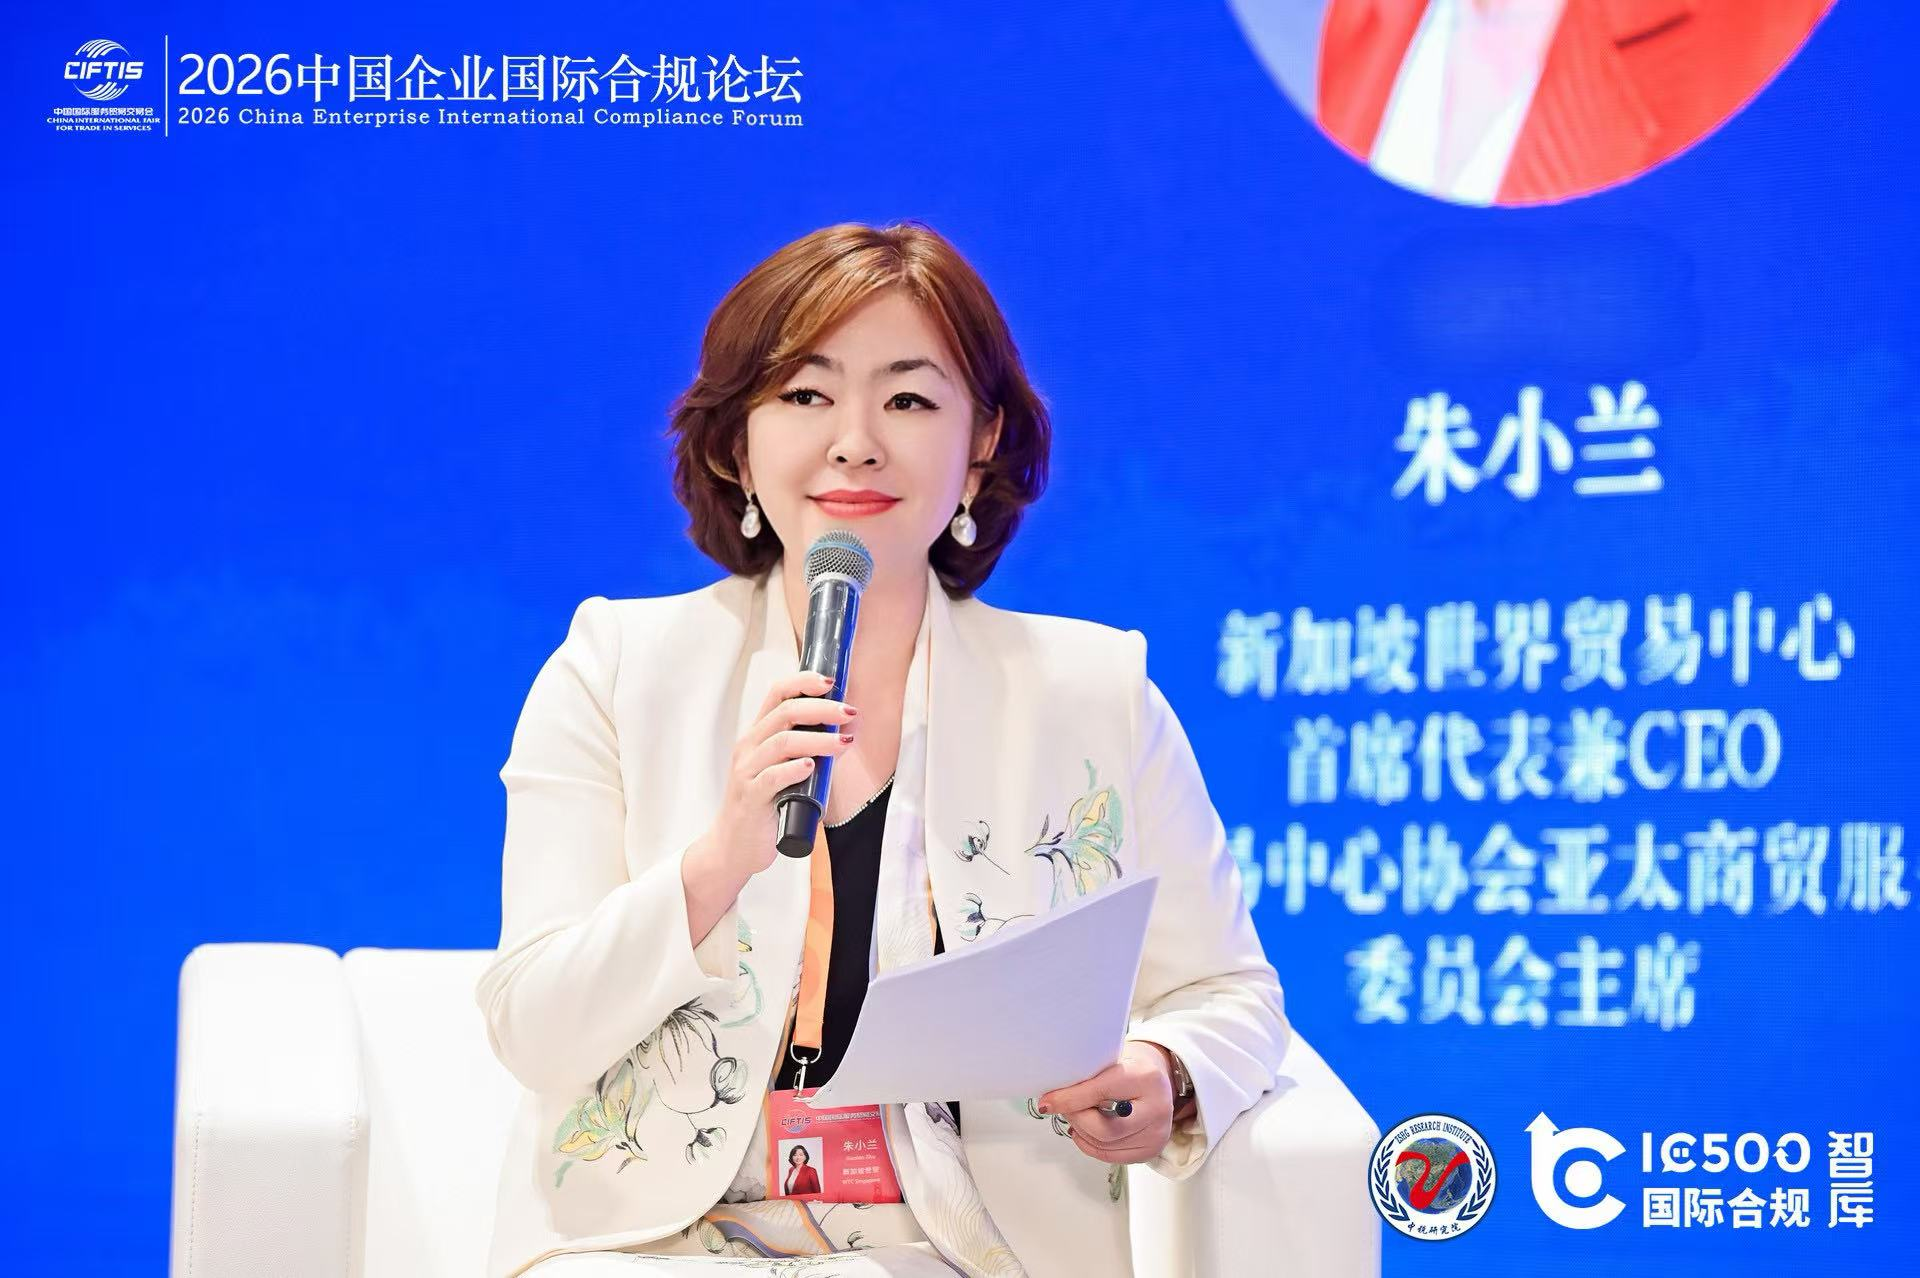
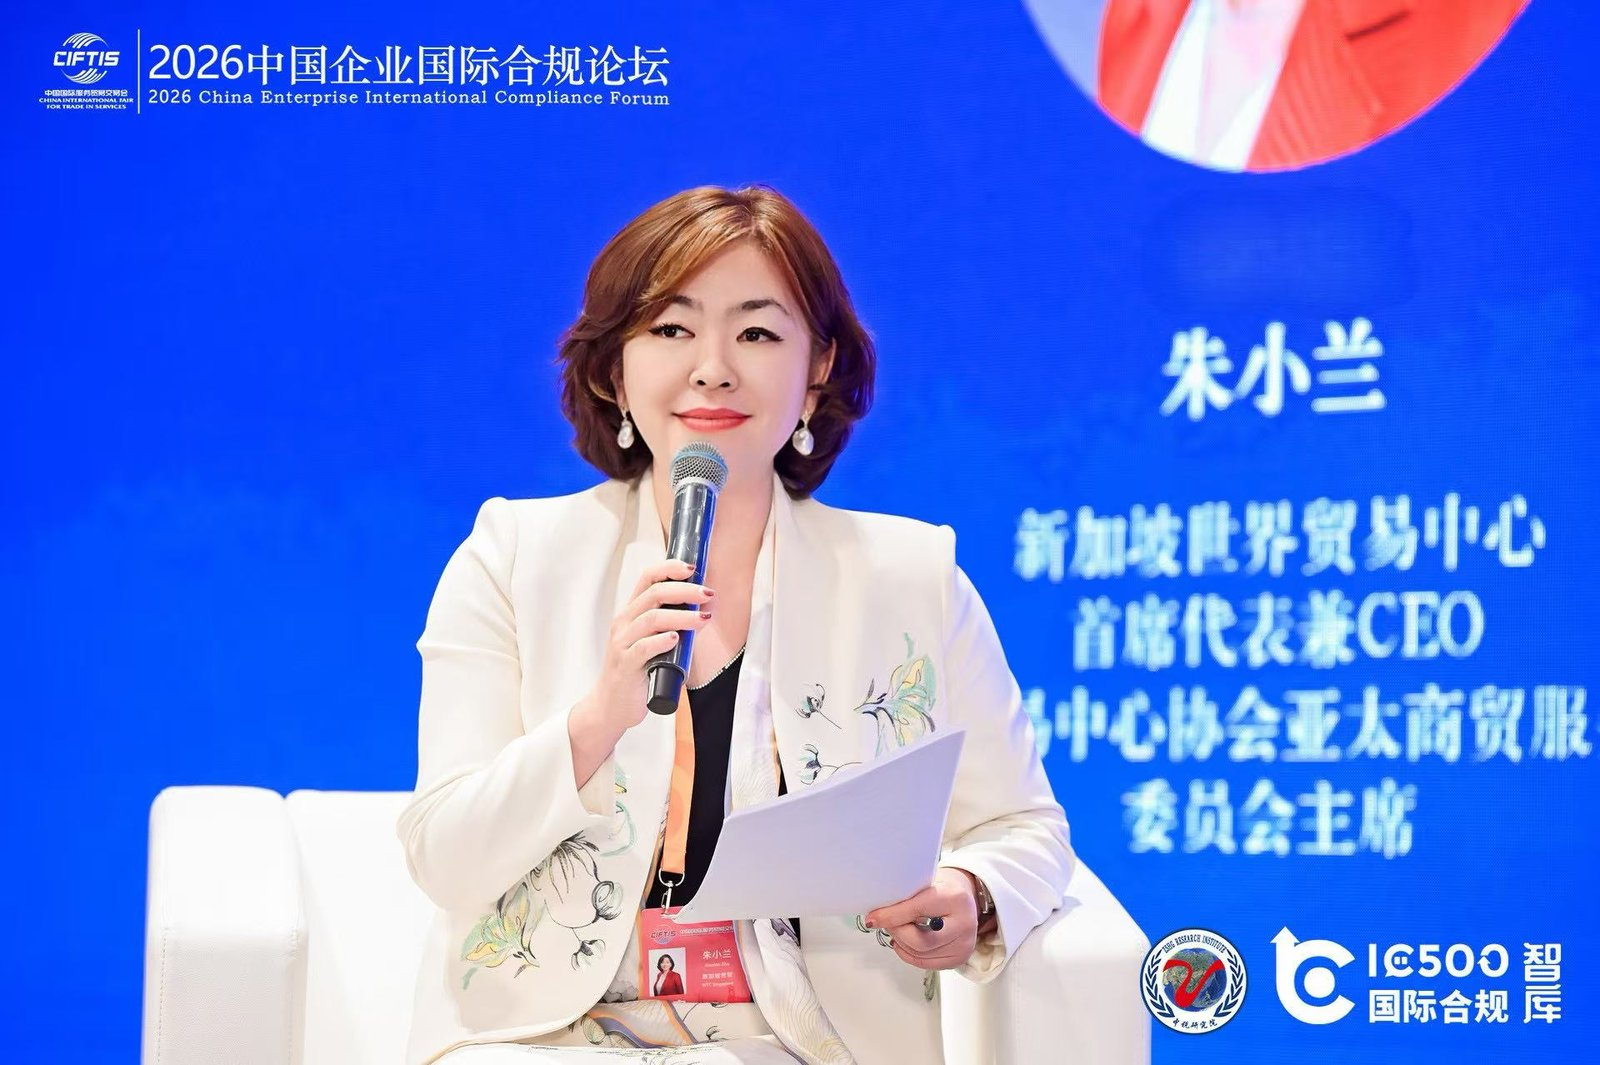
wtc-one-club: compress oversized journal images (37MB -> 7MB); PNG->webp + downscale to 1600px; update html refs

diff --git a/wtc-one-club/journal-ciftis-wrapup-2026/en.html b/wtc-one-club/journal-ciftis-wrapup-2026/en.html
@@ -109,7 +109,7 @@
       <p>Within the external industry forum program, WTC Singapore participated extensively in three high-level forums, bringing practical perspectives from a global economic and trade standpoint. At the International Seminar on the Multilateral Trading System and the Development of Global Trade Networks, representatives of the organization shared practical experience in cross-border collaboration through the World Trade Center network, focusing on the development of the global trading system. WTC Singapore also appeared at the “Shared Trust, Shared Prosperity, Sailing Together” — 2026 China Enterprises Going Global Forum and Comprehensive Going Global Services Ecosystem Partners Conference, joining ecosystem partners from across sectors to discuss the opportunities and pathways for Chinese companies going global. At the 2026 China Enterprises International Compliance Forum, WTC Singapore focused on the risks faced by companies operating across borders and explored approaches to building compliance systems amid international expansion, providing practical reference for companies going global.</p>
 
       <figure class="journal-figure">
-        <img src="pic-03.png" alt="World Trade Centers Association group photo, CIFTIS 2026" loading="lazy">
+        <img src="pic-03.webp" alt="World Trade Centers Association group photo, CIFTIS 2026" loading="lazy">
         <figcaption>World Trade Centers Association group photo, CIFTIS 2026</figcaption>
       </figure>
 
@@ -146,7 +146,7 @@
           <figcaption>Global Ecosystem Partner Signing Ceremony</figcaption>
         </figure>
         <figure class="journal-figure">
-          <img src="pic-08.png" alt="Blake Zhang, Chairman of WTC Singapore, at the roundtable of the International Seminar on the Multilateral Trading System and Global Trade Network Development" loading="lazy">
+          <img src="pic-08.webp" alt="Blake Zhang, Chairman of WTC Singapore, at the roundtable of the International Seminar on the Multilateral Trading System and Global Trade Network Development" loading="lazy">
           <figcaption>Blake Zhang, Chairman of WTC Singapore, at the roundtable of the International Seminar on the Multilateral Trading System and Global Trade Network Development</figcaption>
         </figure>
       </div>
@@ -156,7 +156,7 @@
       <p>On the same day, WTC Singapore announced two major outcomes. First, the “Global Free Trade Zone Health Industry Collaboration Mechanism” was officially launched, jointly initiated by Boao Lecheng International Medical Tourism Pilot Zone in Hainan, the Shanghai Free Trade Zone, and health service institutions from free trade zones around the world. The initiative will promote exchanges in medical technology, mutual referrals for health tourism, the sharing of industry resources, and mutual recognition of standards. Second, the APAC “First Overseas Store for Centenary Brands” was officially established in Sanya, Hainan. Leveraging the Hainan Free Trade Port’s duty-free policy for offshore island travelers and its positioning as an international tourism and consumption center, it will create a new platform for international century-old brands to enter the Chinese market for display and transactions.</p>
 
       <figure class="journal-figure">
-        <img src="pic-09.png" alt="Blake Zhang at the high-level dialogue of the 2026 China Enterprises Going Global Forum and Comprehensive Going Global Services Ecosystem Partners Conference" loading="lazy">
+        <img src="pic-09.webp" alt="Blake Zhang at the high-level dialogue of the 2026 China Enterprises Going Global Forum and Comprehensive Going Global Services Ecosystem Partners Conference" loading="lazy">
         <figcaption>Blake Zhang at the high-level dialogue of the 2026 China Enterprises Going Global Forum and Comprehensive Going Global Services Ecosystem Partners Conference</figcaption>
       </figure>
 
@@ -180,12 +180,12 @@
       <p>The life and health industry roundtable that followed brought together resources from overseas Chinese community organizations, overseas service networks, and representatives from industrial innovation and technology, focusing on the practical barriers faced by life and health companies going global. Participants reached a consensus that product strength is merely the entry ticket for going global. For the globalization of an industry, companies must also overcome multiple challenges, including regulatory access, trust in local markets, and long-term capital support. Only through ecosystem-wide collaboration among overseas Chinese community organizations, the World Trade Center network, and capital can channels for the overseas implementation of life and health businesses be opened up.</p>
 
       <figure class="journal-figure">
-        <img src="pic-12.png" alt="Southeast Asia as a Hub: AI and Going Global Driving Business Growth roundtable" loading="lazy">
+        <img src="pic-12.webp" alt="Southeast Asia as a Hub: AI and Going Global Driving Business Growth roundtable" loading="lazy">
         <figcaption>Southeast Asia as a Hub: AI and Going Global Driving Business Growth roundtable</figcaption>
       </figure>
 
       <figure class="journal-figure">
-        <img src="pic-13.png" alt="CIFTIS 2026 on-site" loading="lazy">
+        <img src="pic-13.webp" alt="CIFTIS 2026 on-site" loading="lazy">
       </figure>
 
       <h2>05  September 11 | China New Energy Power and Electrical Equipment Going Global Research Report Globally Launched</h2>
@@ -196,7 +196,7 @@
       <p>The report points out that entering overseas markets with products is only the starting point for international operations. Moving from “products going global” to “capabilities going global” and then to “ecosystems going global,” companies need to progressively transform from export-oriented business operations toward globalized management. The core of international competition is shifting from single-product capabilities toward comprehensive operating capabilities. This joint release represents a combination of industry research and international networks: on the one hand, it examines the practices and trends in the international development of Chinese new energy power and electrical equipment companies from an industry perspective; on the other hand, through the WTCA global network, it strengthens information and resource connections between Chinese companies, overseas markets, and industry partners, providing decision-making reference for companies to calibrate their internationalization strategies and unlock incremental market opportunities.</p>
 
       <figure class="journal-figure">
-        <img src="pic-14.png" alt="Global Launch Ceremony of the China New Energy Power and Electrical Equipment Going Global Research Report" loading="lazy">
+        <img src="pic-14.webp" alt="Global Launch Ceremony of the China New Energy Power and Electrical Equipment Going Global Research Report" loading="lazy">
         <figcaption>Global Launch Ceremony of the China New Energy Power and Electrical Equipment Going Global Research Report</figcaption>
       </figure>
 

diff --git a/wtc-one-club/journal-ciftis-wrapup-2026/index.html b/wtc-one-club/journal-ciftis-wrapup-2026/index.html
@@ -110,7 +110,7 @@
       <p>在对外行业论坛板块，新加坡世贸中心深度参与三场高规格论坛研讨，立足全球经贸视角输出实践观点。在多边贸易体制与全球贸易网络建设国际研讨会上，机构代表围绕全球贸易体系建设，分享世贸网络跨境协作实践经验；亮相“共信共福 千帆共济”——2026 中国企业走出去论坛暨走出去综合服务生态伙伴大会，与各界生态伙伴共话中国企业 “走出去” 的机遇与路径；出席 2026 中国企业国际合规论坛，聚焦企业跨境经营风险，探讨国际化布局下的合规建设方案，为出海企业提供务实参考。</p>
 
       <figure class="journal-figure">
-        <img src="pic-03.png" alt="世界贸易中心协会 WTCA 2026 服贸会合影" loading="lazy">
+        <img src="pic-03.webp" alt="世界贸易中心协会 WTCA 2026 服贸会合影" loading="lazy">
         <figcaption>世界贸易中心协会 WTCA 2026 服贸会合影</figcaption>
       </figure>
 
@@ -147,7 +147,7 @@
           <figcaption>全球生态合作伙伴签约仪式</figcaption>
         </figure>
         <figure class="journal-figure">
-          <img src="pic-08.png" alt="新加坡世贸中心理事长张克先生在“多边贸易体制与全球贸易网络建设国际研讨会”圆桌对话现场" loading="lazy">
+          <img src="pic-08.webp" alt="新加坡世贸中心理事长张克先生在“多边贸易体制与全球贸易网络建设国际研讨会”圆桌对话现场" loading="lazy">
           <figcaption>新加坡世贸中心理事长张克先生在“多边贸易体制与全球贸易网络建设国际研讨会”圆桌对话现场</figcaption>
         </figure>
       </div>
@@ -157,7 +157,7 @@
       <p>当天新加坡世贸还发布两项重量级成果：其一，“全球自贸区健康产业联动机制”正式启动，联合海南博鳌乐城、上海自贸区及全球多个自贸区健康服务机构共同发起，推动医疗技术交流、健康旅游互荐、产业资源共享与标准互认；其二，APAC “百年品牌全球首店”正式落地海南三亚，将依托海南自贸港离岛免税政策与国际旅游消费中心定位，为国际百年品牌进入中国市场打造全新的展示与交易平台。</p>
 
       <figure class="journal-figure">
-        <img src="pic-09.png" alt="张克理事长在“2026 中国企业走出去论坛暨走出去综合服务生态伙伴大会”高端对话现场" loading="lazy">
+        <img src="pic-09.webp" alt="张克理事长在“2026 中国企业走出去论坛暨走出去综合服务生态伙伴大会”高端对话现场" loading="lazy">
         <figcaption>张克理事长在“2026 中国企业走出去论坛暨走出去综合服务生态伙伴大会”高端对话现场</figcaption>
       </figure>
 
@@ -181,12 +181,12 @@
       <p>紧随其后的生命健康产业专题圆桌，则联动侨联资源、海外服务网络与产业科创代表，聚焦大健康企业出海的现实门槛。与会嘉宾达成共识，产品实力仅为出海入场券，产业全球化发展，还需要跨越监管准入、本地市场信任、长期资本支持等多重考验，依托侨联、世贸、资本多方生态协同，才能打通生命健康产业的海外落地通路。</p>
 
       <figure class="journal-figure">
-        <img src="pic-12.png" alt="东南亚为枢纽丨AI 与出海驱动企业增长圆桌" loading="lazy">
+        <img src="pic-12.webp" alt="东南亚为枢纽丨AI 与出海驱动企业增长圆桌" loading="lazy">
         <figcaption>东南亚为枢纽丨AI 与出海驱动企业增长圆桌</figcaption>
       </figure>
 
       <figure class="journal-figure">
-        <img src="pic-13.png" alt="2026 服贸会现场" loading="lazy">
+        <img src="pic-13.webp" alt="2026 服贸会现场" loading="lazy">
       </figure>
 
       <h2>05 9 月 11 日｜《中国新能源电力电气出海研究报告》全球首发</h2>
@@ -197,7 +197,7 @@
       <p>报告指出，产品进入海外市场只是国际化经营的起点。从“产品出海”走向“能力出海”、再走向“生态出海”，企业需要逐步完成从出口业务向全球化经营的转变，国际化竞争的核心正从单一产品能力向综合经营能力延伸。此次联合发布，是产业研究与国际网络的一次结合：一方面从产业视角梳理中国新能源电力电气企业国际化发展的实践与趋势，另一方面通过 WTCA 全球网络，加强中国企业与海外市场、产业伙伴之间的信息与资源连接，为企业校准国际化战略、打开增量市场提供决策参考。</p>
 
       <figure class="journal-figure">
-        <img src="pic-14.png" alt="《中国新能源电力电气出海研究报告》全球首发仪式" loading="lazy">
+        <img src="pic-14.webp" alt="《中国新能源电力电气出海研究报告》全球首发仪式" loading="lazy">
         <figcaption>《中国新能源电力电气出海研究报告》全球首发仪式</figcaption>
       </figure>
 
